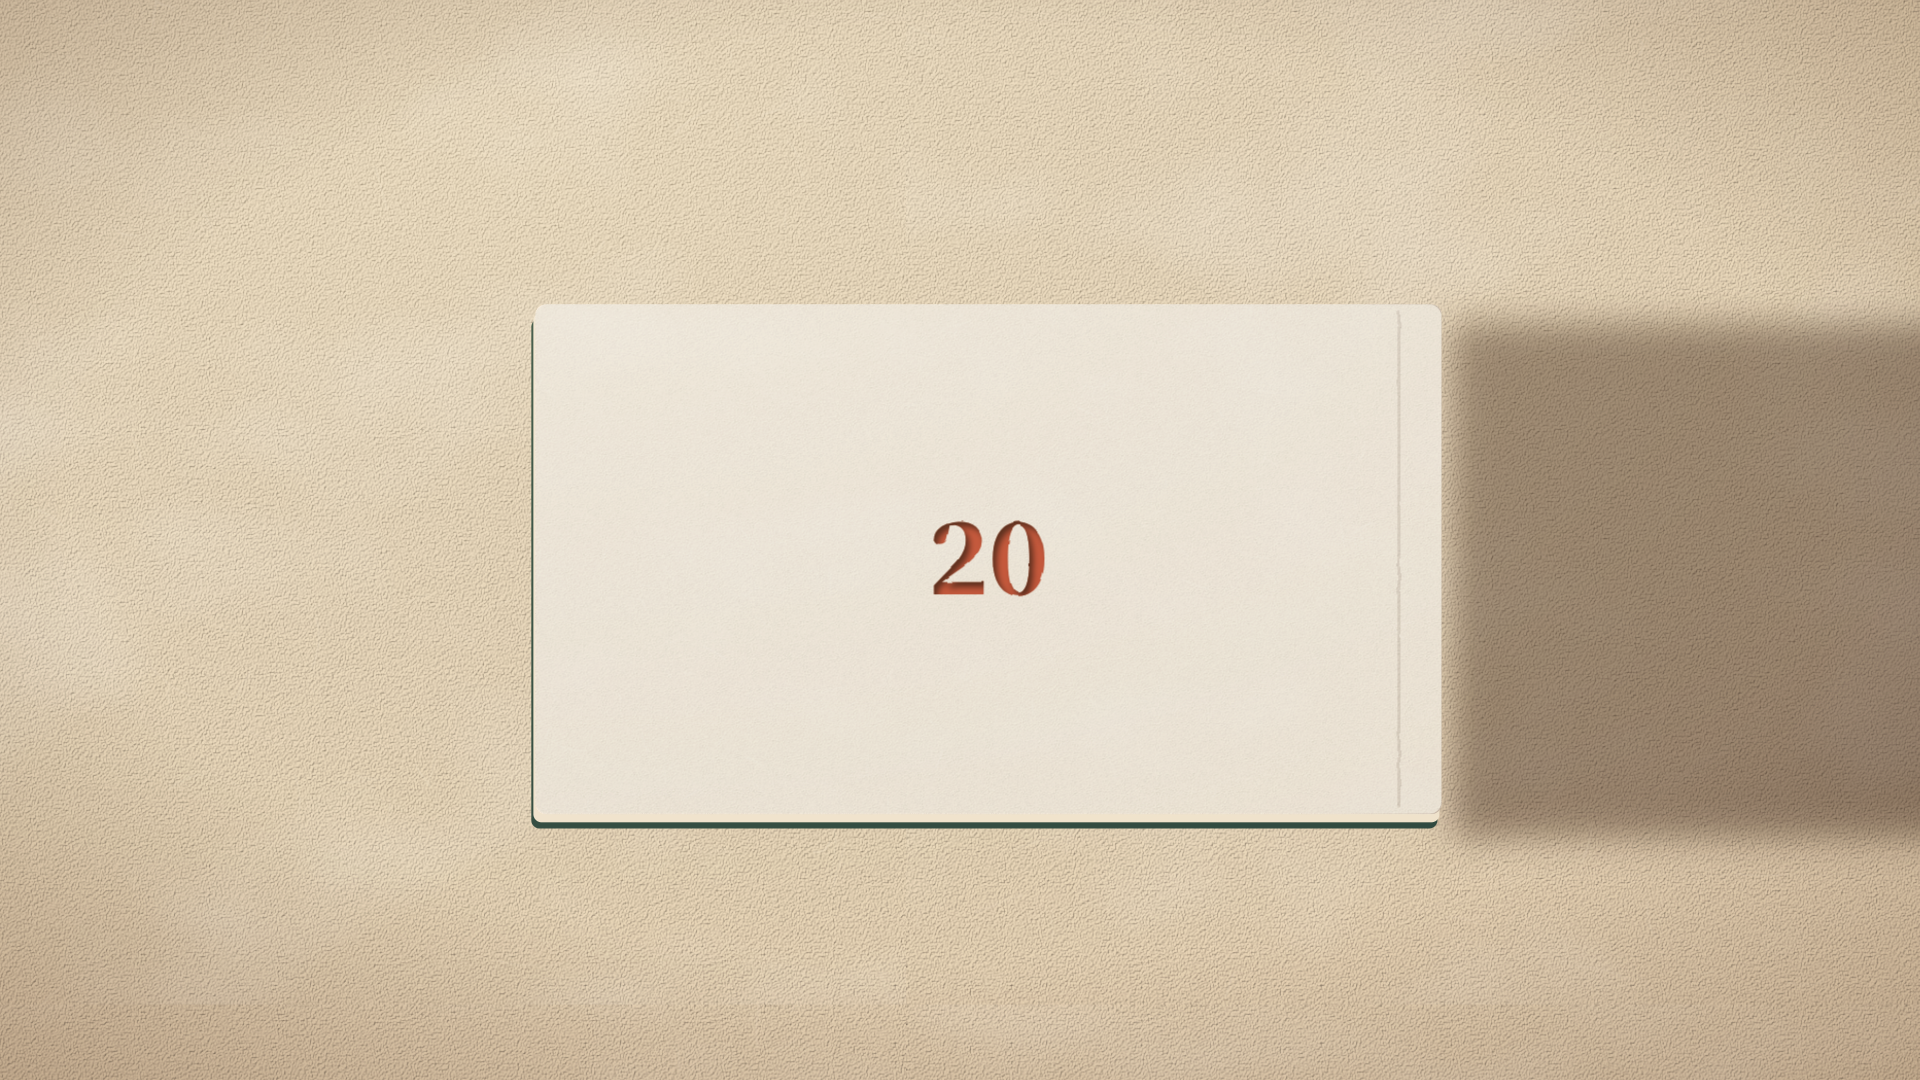
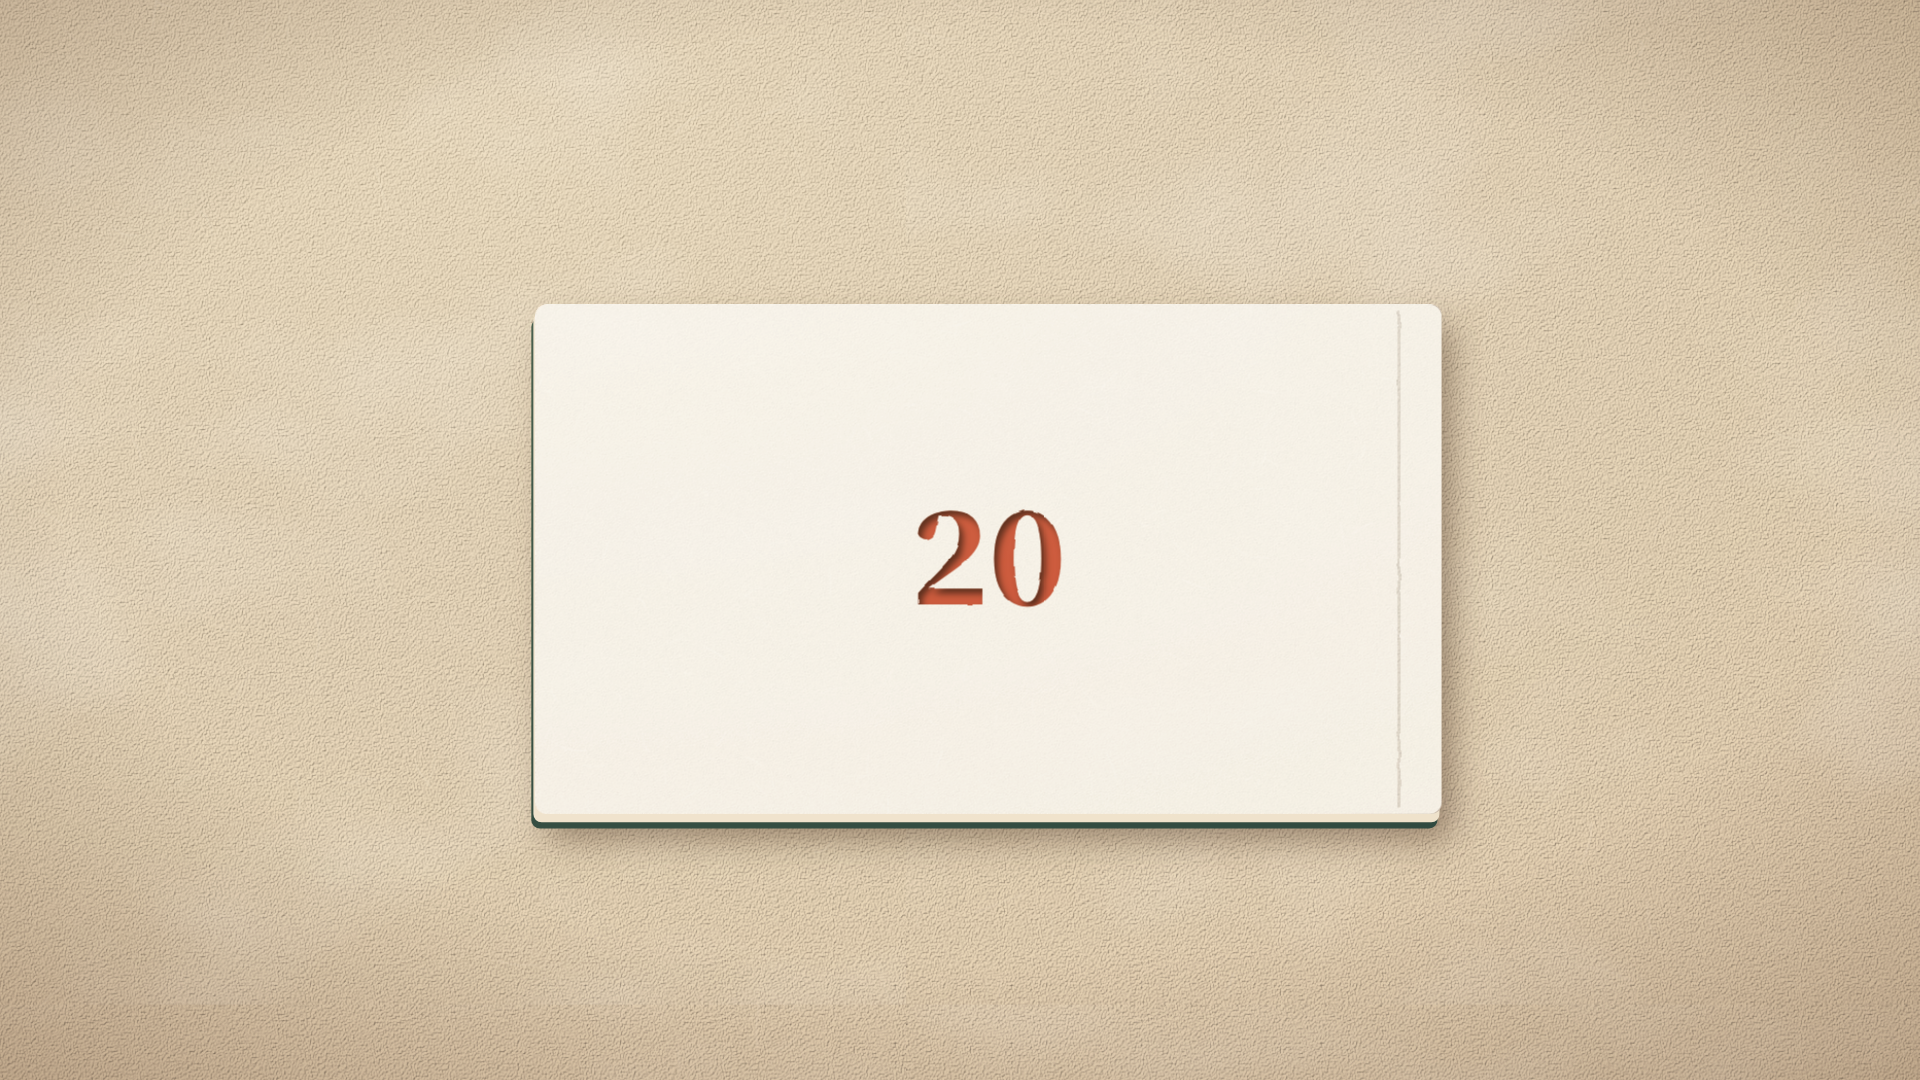
twenty-wishes: 修正翻书后页面过暗、全部关键帧
Claude-Session: https://claude.ai/code/session_017BsZSYrWEFaRfcdLZz5K2L

Changed region(s): [[0.2812, 0.275, 1.0, 0.7944], [0.4688, 0.4583, 0.5625, 0.5806]]

diff --git a/twenty-wishes/src/scenes/Finale.tsx b/twenty-wishes/src/scenes/Finale.tsx
@@ -173,11 +173,11 @@ const BackCover: React.FC = () => (
     </defs>
     <g clipPath="url(#backclip)">
       <image href={staticFile("tex/paper_warm.png")} x={0} y={0} width={BOOK.w} height={BOOK.h} preserveAspectRatio="xMidYMid slice" />
-      <rect width={BOOK.w} height={BOOK.h} fill={lighten(BASE.paper, 0.2)} opacity={0.35} />
+      <rect width={BOOK.w} height={BOOK.h} fill={lighten(BASE.paper, 0.5)} opacity={0.6} />
     </g>
     <rect x={BOOK.w - 43} y={6} width={3} height={BOOK.h - 12} fill={darken(BASE.paper, 0.2)} opacity={0.5} filter="url(#paper-fine)" />
     {/* 镂空的 20：孔里露出朱红的衬纸，孔的左上内沿有阴影 */}
-    <text x={BOOK.w / 2} y={BOOK.h / 2 + 34} textAnchor="middle" fontFamily={`"${FONTS.serif}"`} fontWeight={900} fontSize={96} fill={PALETTE.vermilion} filter="url(#cutout)">
+    <text x={BOOK.w / 2} y={BOOK.h / 2 + 44} textAnchor="middle" fontFamily={`"${FONTS.serif}"`} fontWeight={900} fontSize={124} fill={PALETTE.vermilion} filter="url(#cutout)">
       {FINALE.backCover}
     </text>
   </svg>
@@ -204,7 +204,7 @@ export const Finale: React.FC = () => {
   const tx = lerp(-BOOK.x * s1, 0, zo) + BOOK.w * pan * s;
   const ty = lerp(-BOOK.y * s1, 540 - (BOOK.y + BOOK.h / 2), zo);
   const theta = 180 * rot;
-  const dark = 0.4 * Math.sin((Math.min(90, theta) * Math.PI) / 180);
+  const dark = 0.4 * Math.sin((theta * Math.PI) / 180);
   const shadowA = zo;
 
   return (

diff --git a/twenty-wishes/src/scenes/Prologue.tsx b/twenty-wishes/src/scenes/Prologue.tsx
@@ -144,7 +144,7 @@ export const Prologue: React.FC = () => {
 
   const open = ease.inOut(prog(f, B.coverOpen, B.coverOpen + B.coverOpenDur));
   const theta = 180 * open;
-  const coverDark = 0.35 * Math.sin((Math.min(90, theta) * Math.PI) / 180);
+  const coverDark = 0.35 * Math.sin((theta * Math.PI) / 180);
   const showPage = f >= B.coverOpen - 1;
   const bookShadowA = 1 - z;
 
